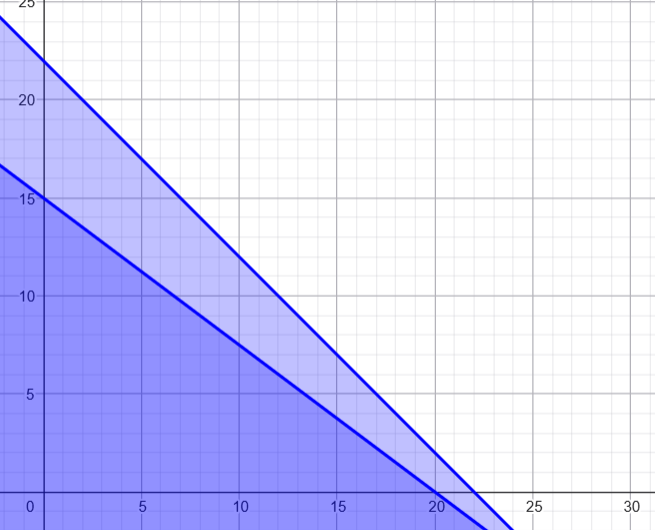
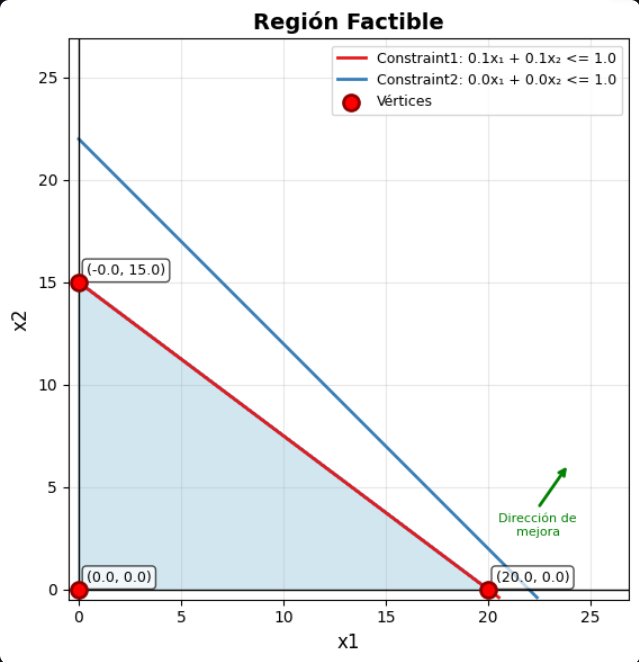
Feature/region vizualizer (#44)
* LP exercise and solution 03. Pending graphical solution image

* LP exercise and solution 05. Pending graph solution

* fixing region vizualizer tool

* fixed region visualizer bug and submitted images

* minimal changes

diff --git a/backend/app/tools/modeling_tools/region_visualizer.py b/backend/app/tools/modeling_tools/region_visualizer.py
@@ -199,12 +199,17 @@ La imagen muestra:
             bounds.append((float(lower), float(upper)))
         return bounds
 
-    _FLIPPED_SENSE: ClassVar[dict[str, str]] = {"<=": ">=", ">=": "<=", "=": "="}
-
     def _parse_constraints(
         self, constraints: list[dict[str, Any]], var_names: list[str]
     ) -> list[dict[str, Any]]:
-        """Parse constraints into coefficient form."""
+        """Parse constraints into normalized coefficient form.
+
+        Each side is parsed as (variable coefficients, constant). The constraint
+        is then normalized so all variable terms are on the LHS and all constants
+        on the RHS, preserving the inequality sense. This handles textbook forms
+        such as ``12 - X - Y >= 0`` (where the constant lives on the LHS alongside
+        the variables), which the previous implementation silently dropped.
+        """
         parsed = []
 
         for constraint in constraints:
@@ -220,29 +225,24 @@ La imagen muestra:
                     continue
                 lhs, rhs = (s.strip() for s in expression.split(op, 1))
 
-                # Try standard form: variables on LHS, constant on RHS.
-                try:
-                    rhs_val = float(rhs)
-                    coeffs = self._parse_expression(lhs, var_names)
-                    sense = op
-                except ValueError:
-                    # Try flipped form: "10 >= x1 + 2*x2" -> "x1 + 2*x2 <= 10"
-                    try:
-                        rhs_val = float(lhs)
-                        coeffs = self._parse_expression(rhs, var_names)
-                        sense = self._FLIPPED_SENSE[op]
-                    except ValueError as e:
-                        raise ValueError(
-                            f"No se pudo parsear la restricción '{expression}': "
-                            f"se esperaba una constante en uno de los lados."
-                        ) from e
+                lhs_coeffs, lhs_const = self._parse_side(lhs, var_names)
+                rhs_coeffs, rhs_const = self._parse_side(rhs, var_names)
+
+                # Move variables to LHS, constants to RHS.
+                net_coeffs = [a - b for a, b in zip(lhs_coeffs, rhs_coeffs, strict=False)]
+                net_rhs = rhs_const - lhs_const
+
+                if all(abs(c) < 1e-12 for c in net_coeffs):
+                    raise ValueError(
+                        f"Restricción sin variables: '{expression}'"
+                    )
 
                 parsed.append(
                     {
                         "name": name,
-                        "coeffs": coeffs,
-                        "rhs": rhs_val,
-                        "sense": sense,
+                        "coeffs": net_coeffs,
+                        "rhs": net_rhs,
+                        "sense": op,
                     }
                 )
                 break
@@ -250,42 +250,57 @@ La imagen muestra:
         return parsed
 
     @staticmethod
-    def _parse_expression(expression: str, var_names: list[str]) -> list[float]:
-        """Parse a linear expression into coefficients aligned to var_names.
+    def _parse_side(
+        expression: str, var_names: list[str]
+    ) -> tuple[list[float], float]:
+        """Parse one side of a linear (in)equality into (coefficients, constant).
 
-        Uses word-boundary regex matching so variable names like "x1" do not
-        collide with "x10" (a substring match would assign 2*x10's coefficient
-        to x1 and silently drop x10).
+        Uses word-boundary regex matching so variable names like ``x1`` do not
+        collide with ``x10``. Bare numeric terms accumulate into ``constant``.
         """
         coefficients = [0.0] * len(var_names)
+        constant = 0.0
 
         expr = expression.replace(" ", "")
         if not expr:
-            return coefficients
+            return coefficients, constant
 
-        # Sort longest-first so the alternation prefers x10 over x1 at the same position
+        # Sort longest-first so x10 is tried before x1 at the same position.
         sorted_names = sorted(var_names, key=len, reverse=True)
         var_alt = "|".join(re.escape(v) for v in sorted_names)
 
-        # Term: optional sign, optional numeric coefficient (incl. scientific),
-        # optional '*', then a variable name not followed by an identifier char.
-        term_re = re.compile(
+        # Each term is: optional sign, then EITHER (optional coef * variable)
+        # OR a bare constant. Variable-bearing terms have priority because the
+        # alternation matches left-to-right.
+        token_re = re.compile(
             r"(?P<sign>[+-]?)"
-            r"(?P<coef>\d+(?:\.\d+)?(?:[eE][+-]?\d+)?)?"
-            r"\*?"
-            r"(?P<var>" + var_alt + r")"
-            r"(?![A-Za-z0-9_])"
+            r"(?:"
+            r"(?P<coef>\d+(?:\.\d+)?(?:[eE][+-]?\d+)?)?\*?"
+            r"(?P<var>" + var_alt + r")(?![A-Za-z0-9_])"
+            r"|"
+            r"(?P<const>\d+(?:\.\d+)?(?:[eE][+-]?\d+)?)"
+            r")"
         )
 
-        for m in term_re.finditer(expr):
+        for m in token_re.finditer(expr):
             sign = -1.0 if m.group("sign") == "-" else 1.0
-            coef_str = m.group("coef")
-            coef = float(coef_str) if coef_str else 1.0
             var = m.group("var")
-            idx = var_names.index(var)
-            coefficients[idx] += sign * coef
+            if var is not None:
+                coef = float(m.group("coef")) if m.group("coef") else 1.0
+                coefficients[var_names.index(var)] += sign * coef
+            else:
+                constant += sign * float(m.group("const"))
 
-        return coefficients
+        return coefficients, constant
+
+    @classmethod
+    def _parse_expression(cls, expression: str, var_names: list[str]) -> list[float]:
+        """Parse a linear expression into variable coefficients (constant discarded).
+
+        Kept for the objective-arrow path, which only needs the gradient direction.
+        """
+        coeffs, _ = cls._parse_side(expression, var_names)
+        return coeffs
 
     def _generate_plot(
         self,

diff --git a/data/course_materials/linear_programming/exercises/lp_03/model.md b/data/course_materials/linear_programming/exercises/lp_03/model.md
@@ -10,13 +10,13 @@
 - Maximizar $z = 0.07X + 0.08Y + 0.12(12 - X - Y) = 1.44 - 0.05X - 0.04Y$
 
 ### Restricciones
-- $12 - X - Y \geq 0 $
-- $12 - X - Y \leq 2 $
-- $Y \leq \frac{1}{3} X$
+- $12 - X - Y \geq 0$
+- $12 - X - Y \leq 2$
+- $X - 3Y \geq 0$
 - $X, Y \geq 0$
 
 ## Solución gráfica
 
-![]()
+![image03](data/course_materials/linear_programming/images/image-03.png)
 
 Al probar los vértices de la región factible en $(9, 3), (12, 0), (10, 0) \text{ y } (7.5, 2.5)$, se obtiene una rentabilidad óptima de la inversión de $\$965$ al invertir $\$7500$ en fondos mixtos, $\$2500$ en fondos garantizados y $\$2000$ en la Bolsa de Valores.

diff --git a/data/course_materials/linear_programming/exercises/lp_01/model.md b/data/course_materials/linear_programming/exercises/lp_01/model.md
@@ -20,6 +20,6 @@ De capacitores:
 De no negatividad:
 - $x, y \geq 0$
 
-**--resume e0a8069f-2cb7-4eab-81d2-9b8849bde7bf**
+ **--resume e0a8069f-2cb7-4eab-81d2-9b8849bde7bf** -->
 
-Monitoring tools **claude --resume b566325e-4b76-44c7-8b24-736a83d80051**
+<!-- Monitoring tools **claude --resume b566325e-4b76-44c7-8b24-736a83d80051** -->